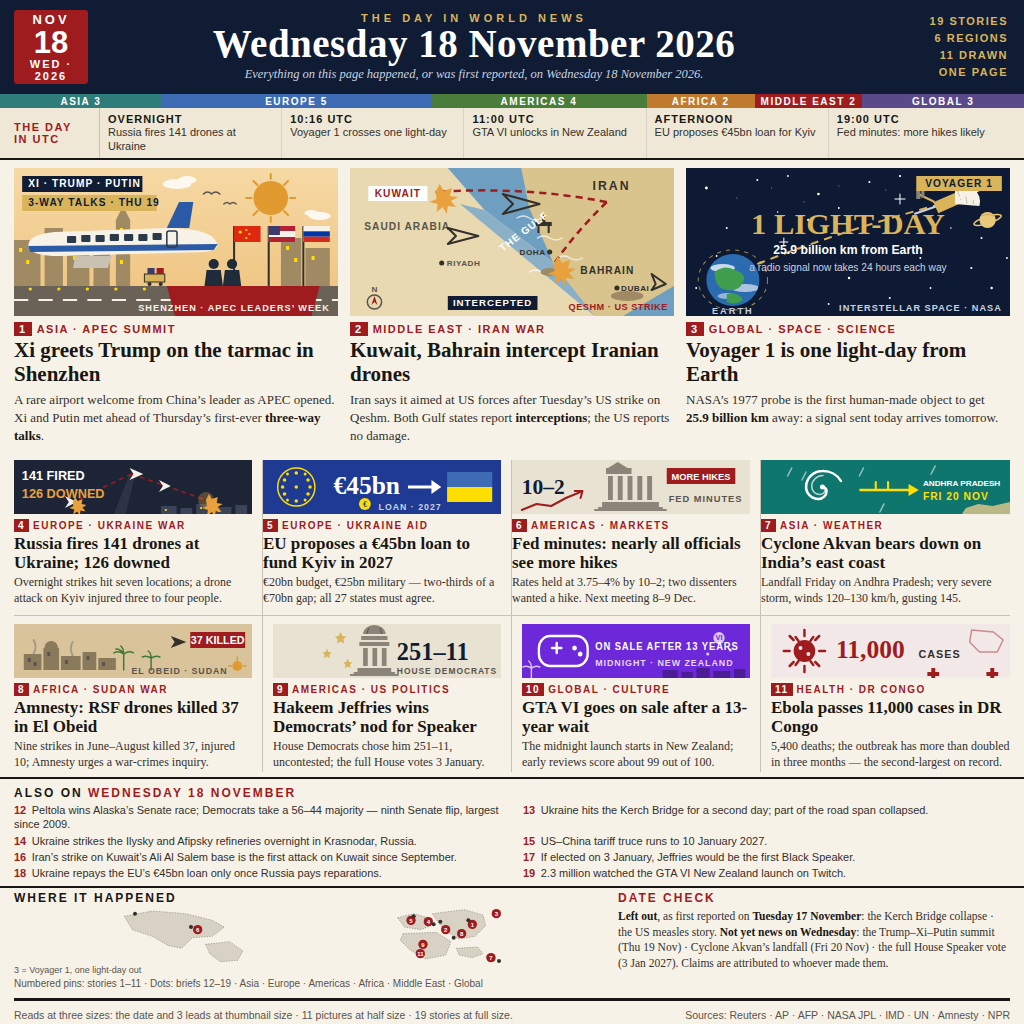
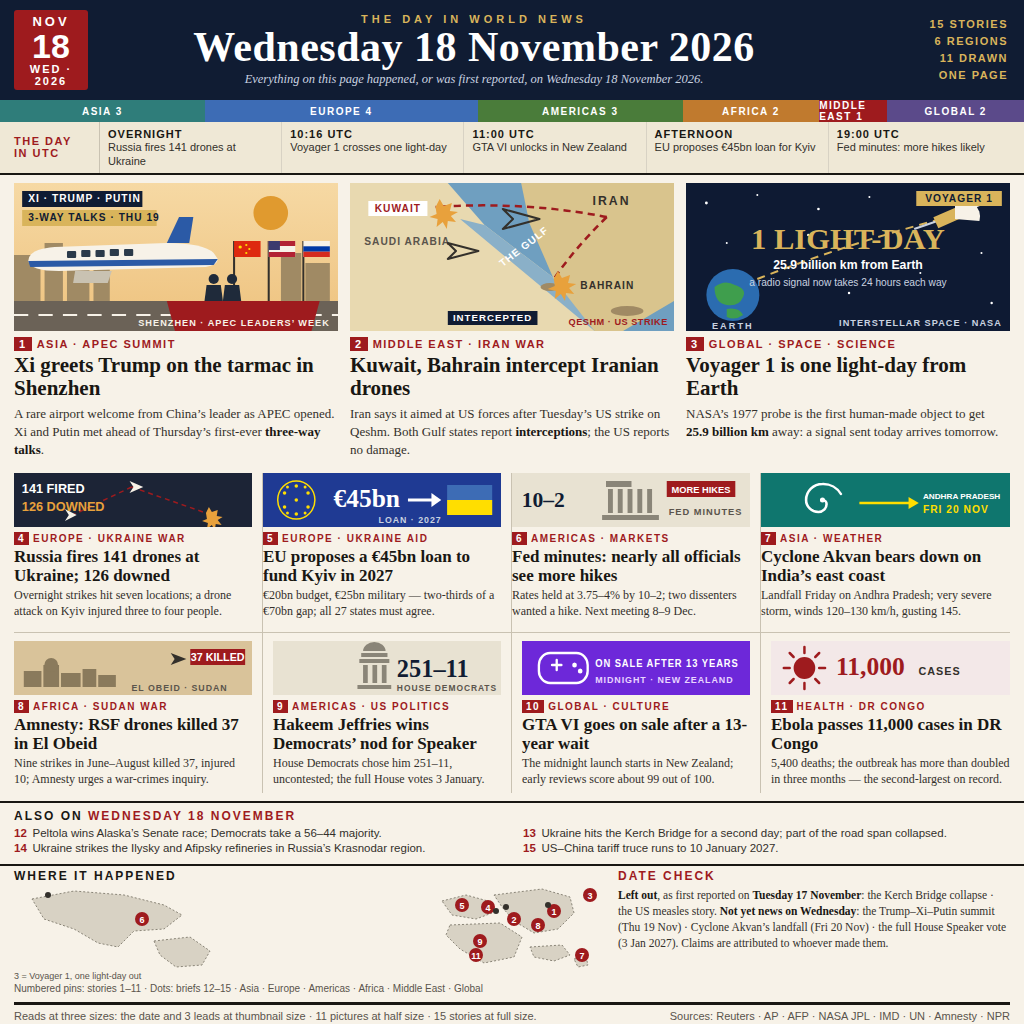
v4: revert to v2 content (15 stories, briefs 12-15), fix text-placement defects

diff --git a/README.md b/README.md
@@ -6,12 +6,12 @@
 
 Entry for the make.fun bounty [Sum up 18 November's world news in one image](https://make.fun/bounty/news-image-20261118).
 
-A dense newspaper-style image summing up the world's news of Wednesday 18 November 2026 — 19 stories on one page: a navy masthead with the date, a "THE DAY IN UTC" timeline, three illustrated lead stories, eight cards, a numbered briefs strip, a "WHERE IT HAPPENED" map and a "DATE CHECK" footer.
+A dense newspaper-style image summing up the world's news of Wednesday 18 November 2026 — 15 stories on one page: a navy masthead with the date, a "THE DAY IN UTC" timeline, three illustrated lead stories, eight cards, a numbered briefs strip, a "WHERE IT HAPPENED" map and a "DATE CHECK" footer.
 
 Leads: Xi greets Trump on the tarmac in Shenzhen as APEC opens; Kuwait and Bahrain intercept Iranian drones after the US strike on Qeshm Island; Voyager 1 crosses one light-day from Earth. Cards: Russia fires 141 drones at Ukraine (126 downed); the EU proposes a €45bn loan for Kyiv in 2027; Fed minutes point to more hikes; Cyclone Akvan bears down on India's east coast; Amnesty reports 37 killed by RSF drones in El Obeid; Hakeem Jeffries wins the Democrats' Speaker nomination 251–11; GTA VI goes on sale after a 13-year wait; Ebola passes 11,000 cases in DR Congo. Briefs: Peltola wins Alaska's Senate race (56–44); Ukraine hits the Kerch Bridge for a second day; Ukraine strikes the Ilysky and Afipsky refineries; the US–China tariff truce runs to 10 January 2027.
 
 v2 redesign (19 Nov 2026): rebuilt in the dense front-page style the user asked for — timeline strip, detailed flat illustrations per story, numbered briefs, world map and date check — using only verified facts. The image is drawn as a front page and the program copies it to the output directory unchanged.
 
-v3 (19 Nov 2026): briefs strip expanded from 4 to 8 briefs (12–19) with four verified additions; illustration detail enriched across the three leads and all eight cards; counts updated to 19 stories throughout.
+v4 (19 Nov 2026): back to the v2 content (15 stories, briefs 12–15) with the text-placement defects fixed — card bodies tightened to two lines, footer and map spacing rebalanced so no text touches a divider rule.
 
 Run it with `mkdir -p out && MAKEFUN_OUTPUT_DIR=out node main.ts`. The image is 1024×1024 PNG.
